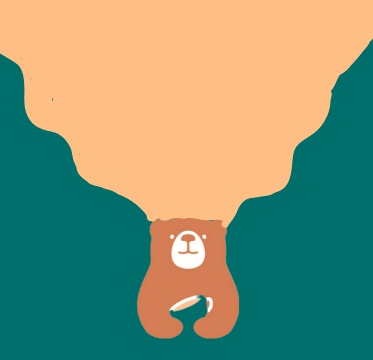
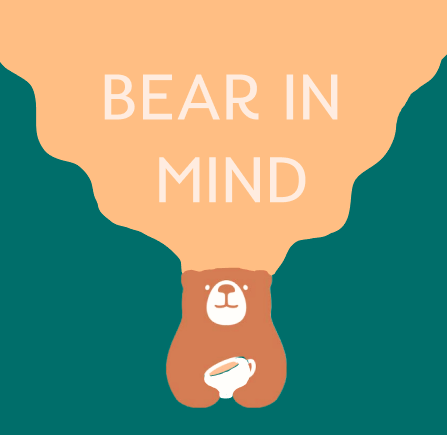
Header Image Change & Title Taken Away

diff --git a/my-app/src/components/App/App.js b/my-app/src/components/App/App.js
@@ -1,17 +1,16 @@
 import React from 'react';
 import './App.css';
 import bearTitleImage from '../../assets/bearTitleImage.png'
-import { Card } from 'primereact/card';
 
 function App() {
+
+ 
+
   return (
     <div className="App">
       <div className="overlay">
 
         <header className="header">
-          <div className="header__title">
-          <h1>Bear In Mind</h1> 
-          </div>
         <div className="header__image">
           <img src={bearTitleImage} alt="bearTitleImage" />
         </div>

diff --git a/my-app/src/components/App/App.css b/my-app/src/components/App/App.css
@@ -42,7 +42,7 @@ img{
   flex-direction: column;
   align-items: center;
   justify-content: center;
-  margin-top: 6em;
+  margin-top: 5em;
 }
 
 .main__random_flashcard-card {
@@ -72,7 +72,7 @@ img{
 }
 
 .main__random_flashcard-button{
-  margin-top: .4em;
+  margin-top: .6em;
   
 }
 
@@ -98,7 +98,7 @@ img{
   display: flex;
   flex-direction: column;
   justify-content: space-between;
-  margin-top: 10em;
+  margin-top: 7em;
 }
 
 .nav__buttons-button{
